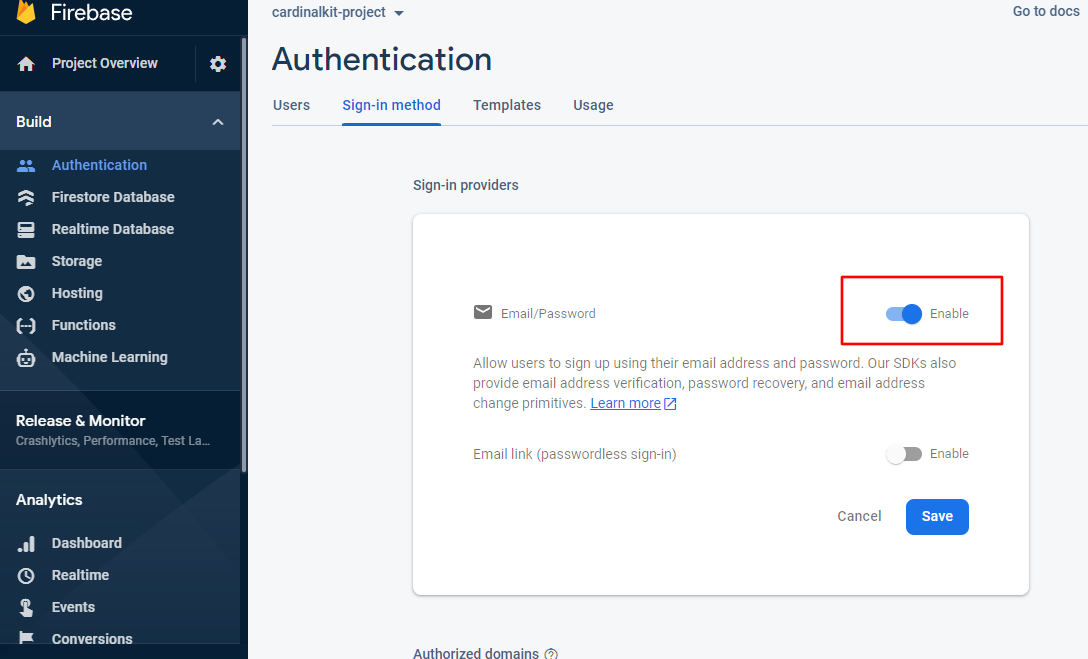
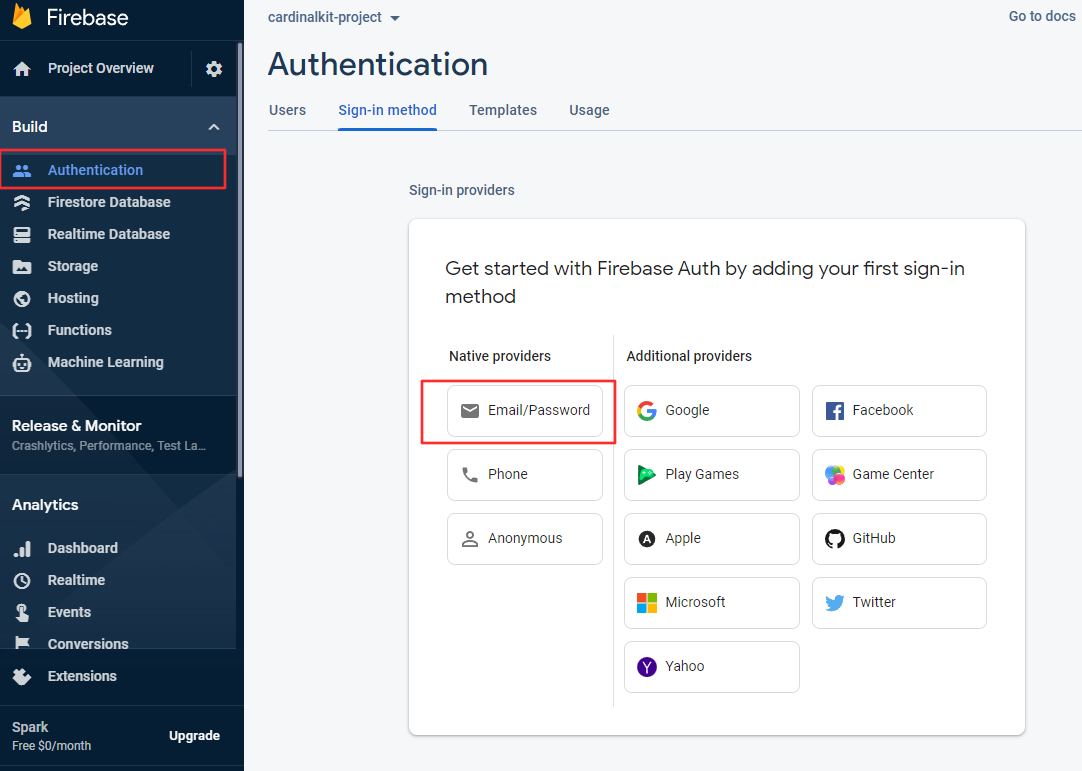
Adds new screenshots to authentication setup (addresses #4)

diff --git a/src/1-cardinalkit-app/2-setup.md b/src/1-cardinalkit-app/2-setup.md
@@ -116,24 +116,32 @@ CardinalKit supports both **Email/Password Authentication** and **Sign In With A
 
 ### Setting up Email/Password Authentication
 
-In Xcode, pen the CKConfiguration.plist file in Xcode and edit the **Enabled** key under the **Sign in with User/Password** key to **1**. (If you have just cloned the project, this is already done for you.)
+In Xcode, open the CKConfiguration.plist file in Xcode and edit the **Enabled** key under the **Sign in with User/Password** key to **1**. (If you have just cloned the project, this is already done for you.)
 
-In your Firebase project, click on Authentication. Then click on "Email/Password". 
+<br />
+
+<Example>
+<img src="./images/email_authentication-1.png" alt="Email/Password Authentication Setup Step 1" width="800">
+</Example>
+
+<br />
+
+In your Firebase console, click on "Authentication", then click on "Email/Password". 
+
+<Example>
+<img src="./images/email_authentication-2.png" alt="Email/Password Authentication Setup Step 2" width="800"/>
+</Example>
 
 ::: tip
 If you have already set up an authentication method and are adding another one, you will see a different screen at this step. In that case, click on "Sign-In Method" at the top and click "Add New Provider", instead.
 :::
-
-<Example>
-<img src="./images/email_authentication.png" alt="Email/Password Authentication Setup Step 1" width="650"/>
-</Example>
 
 <br />
 
 On the next screen, enable "Email/Password Sign On" and click "Save".
 
 <Example>
-<img src="./images/email_authentication-2.png" alt="Email/Password Authentication Setup Step 2" width="650" />
+<img src="./images/email_authentication-3.png" alt="Email/Password Authentication Setup Step 3" width="800" />
 </Example>
 
 <br />
@@ -172,10 +180,38 @@ The last step is to open the CKConfiguration.plist file in Xcode and edit the **
 
 ### Setting up Sign In With Google (Optional)
 
-To implement Google Sign In with your CardinalKit application, you will need to create a custom URL scheme in your Xcode project. In Xcode, open your CardinalKit project and double-click the project name in the navigator view on the left. Select your project from the "Targets" section and then select the "Info" tab and expand the "URL Types" section.
+First, open your Firebase console, click on the "Authentication" tab, then click on "Sign In Method", then click on "Add New Provider".
 
 <Example>
-<img src="./images/google-setup-1.png" alt="Google Sign In Setup Step 1" width="800" />
+<img src="./images/google-setup-step-1.png" alt="Google Sign In Setup Step 1" width="800" />
+</Example>
+
+<br />
+
+Now, click on "Google" in the list of sign-in providers.
+
+<br />
+
+<Example>
+<img src="./images/google-setup-step-2.png" alt="Google Sign In Setup Step 2" width="800" />
+</Example>
+
+<br />
+
+Then, fill in your project's public facing name, choose a project support email address, and click "Save".
+
+<br />
+
+<Example>
+<img src="./images/google-setup-step-3.png" alt="Google Sign In Setup Step 3" width="800" />
+</Example>
+
+<br />
+
+Next, you will need to create a custom URL scheme in your Xcode project. In Xcode, open your CardinalKit project and double-click the project name in the navigator view on the left. Select your project from the "Targets" section and then select the "Info" tab and expand the "URL Types" section.
+
+<Example>
+<img src="./images/google-setup-step-4.png" alt="Google Sign In Setup Step 4" width="800" />
 </Example>
 
 <br />
@@ -183,12 +219,16 @@ To implement Google Sign In with your CardinalKit application, you will need to 
 Click the **+** button and a URL scheme with your Reversed Client ID. This can be found by opening your **GoogleService-Info.plist** file and looking for the **REVERSED_CLIENT_ID** key. When this is complete your project should look like this:
 
 <Example>
-<img src="./images/google-setup-2.png" alt="Google Sign In Setup Step 2" width="800" />
+<img src="./images/google-setup-step-5.png" alt="Google Sign In Setup Step 5" width="800" />
 </Example>
 
 <br />
 
 The last step is to open the CKConfiguration.plist file in Xcode and edit the **Enabled** key under the **Sign in with Google** key to **1**.
+
+<Example>
+<img src="./images/google-setup-step-6.png" alt="Google Sign In Setup Step 6" width="800" />
+</Example>
 
 ## 5. Add Custom Rules to the Firebase Database
 
